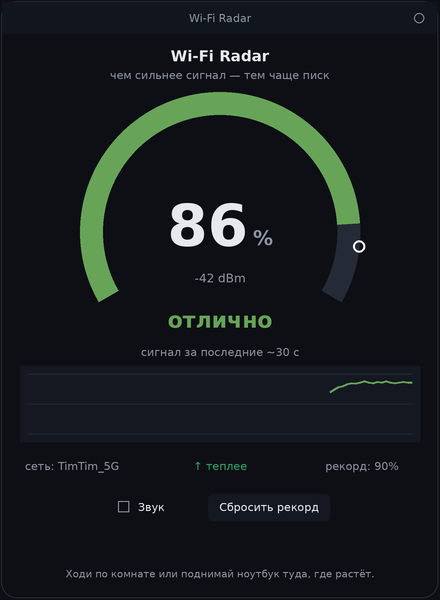
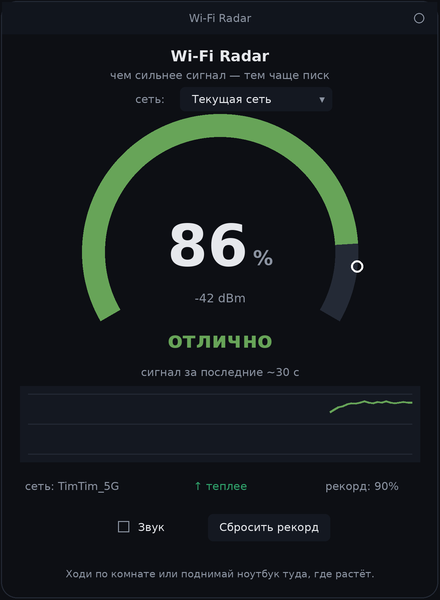
Target any nearby network (no password), via a signal scanner
- scan_networks() reads signal of all visible APs from beacons: nmcli
  on Linux, netsh on Windows; no password or association needed
- Background Scanner thread keeps the network list fresh and tracks
  the signal of a chosen non-connected network (slower scan cadence)
- GUI: network dropdown ("Текущая сеть" + nearby SSIDs with %), meter
  retargets to the selected network; graph/record reset on switch
- Screenshot and README updated for the selector

diff --git a/wifi_radar.py b/wifi_radar.py
@@ -227,6 +227,58 @@ def read_signal():
     return {"q": None, "dbm": None, "ssid": None, "iface": None, "connected": False}
 
 
+# ── Сканирование всех соседних сетей (без пароля — из открытых маячков) ──
+
+def _scan_linux(rescan=True):
+    args = ["nmcli", "-t", "-f", "SIGNAL,SSID", "dev", "wifi", "list",
+            "--rescan", "yes" if rescan else "no"]
+    out = _run(args)
+    nets = {}
+    for ln in out.splitlines():
+        sig, sep, ssid = ln.partition(":")
+        if not sep or not sig.isdigit():
+            continue
+        ssid = ssid.replace("\\:", ":").strip()
+        if not ssid:
+            continue  # скрытая сеть — пропускаем
+        q = int(sig)
+        if ssid not in nets or q > nets[ssid]:
+            nets[ssid] = q
+    return nets
+
+
+def _scan_windows():
+    out = _run(["netsh", "wlan", "show", "networks", "mode=bssid"])
+    nets = {}
+    cur = None
+    for ln in out.splitlines():
+        s = ln.strip()
+        m = re.match(r"SSID\s+\d+\s*:\s*(.*)$", s)
+        if m:
+            cur = m.group(1).strip() or None
+            continue
+        if cur:
+            mp = re.search(r"(\d{1,3})\s*%", s)
+            if mp:
+                q = int(mp.group(1))
+                if cur not in nets or q > nets[cur]:
+                    nets[cur] = q
+    return nets
+
+
+def scan_networks():
+    """Вернуть {ssid: качество 0..100} по всем видимым сетям. Без пароля."""
+    system = platform.system()
+    try:
+        if system == "Linux":
+            return _scan_linux()
+        if system == "Windows":
+            return _scan_windows()
+    except Exception:
+        pass
+    return {}
+
+
 # ──────────────────────────────────────────────────────────────────────────
 #  Звук (писк, по платформам)
 # ──────────────────────────────────────────────────────────────────────────
@@ -325,6 +377,27 @@ class Beeper(threading.Thread):
         self._stop.set()
 
 
+class Scanner(threading.Thread):
+    """Периодически сканирует соседние сети: держит список для выпадающего
+    меню и уровень выбранной (не подключённой) сети."""
+    def __init__(self, app):
+        super().__init__(daemon=True)
+        self.app = app
+        self._stop = threading.Event()
+
+    def run(self):
+        while not self._stop.is_set():
+            nets = scan_networks()
+            if nets:
+                self.app.scan_targets = nets
+                self.app.networks = sorted(nets, key=lambda k: -nets[k])
+            # когда наведены на чужую сеть — сканируем чаще
+            self._stop.wait(2.5 if self.app.target_ssid else 8.0)
+
+    def stop(self):
+        self._stop.set()
+
+
 # ──────────────────────────────────────────────────────────────────────────
 #  Графический интерфейс
 # ──────────────────────────────────────────────────────────────────────────
@@ -360,6 +433,12 @@ class App:
         self.display_q = 0.0    # что показываем сейчас (плавно догоняет target)
         self.frame = 0
 
+        # выбор сети для наблюдения
+        self.target_ssid = None     # None = текущая подключённая сеть
+        self.scan_targets = {}      # {ssid: качество} из последнего скана
+        self.networks = []          # имена сетей для меню
+        self._menu_names = None     # что сейчас в меню (чтобы не перестраивать зря)
+
         root.title(APP_NAME)
         root.configure(bg=BG)
         root.resizable(False, False)
@@ -373,7 +452,7 @@ class App:
         except Exception:
             pass
         try:
-            root.geometry("440x708")
+            root.geometry("440x748")
         except Exception:
             pass
 
@@ -388,6 +467,20 @@ class App:
         tk.Label(root, text="Wi-Fi Radar", font=self.f_title, bg=BG, fg=FG).pack(pady=(18, 2))
         tk.Label(root, text="чем сильнее сигнал — тем чаще писк",
                  font=self.f_small, bg=BG, fg=MUTED).pack(pady=(0, 6))
+
+        # Выбор сети: можно навестись на ЛЮБУЮ видимую сеть (пароль не нужен)
+        selrow = tk.Frame(root, bg=BG)
+        selrow.pack(pady=(0, 2))
+        tk.Label(selrow, text="сеть:", font=self.f_small, bg=BG, fg=MUTED
+                 ).grid(row=0, column=0, padx=(0, 6))
+        self.net_var = tk.StringVar(value="Текущая сеть")
+        self.net_menu = tk.OptionMenu(selrow, self.net_var, "Текущая сеть")
+        self.net_menu.config(font=self.f_small, bg=CARD, fg=FG, bd=0, width=22,
+                             highlightthickness=0, activebackground=TRACK,
+                             activeforeground=FG)
+        self.net_menu["menu"].config(bg=CARD, fg=FG, bd=0,
+                                     activebackground=TRACK, activeforeground=FG)
+        self.net_menu.grid(row=0, column=1)
 
         # Шкала-дуга
         self.CW, self.CH = 400, 270
@@ -455,8 +548,35 @@ class App:
 
         self.beeper = Beeper(self)
         self.beeper.start()
+        self.scanner = Scanner(self)
+        self.scanner.start()
         root.protocol("WM_DELETE_WINDOW", self._on_close)
         self.loop()
+
+    # --- выбор сети ---
+    def _on_net_change(self, choice):
+        self.target_ssid = None if choice == "Текущая сеть" else choice
+        # сброс, чтобы график и рекорд относились к новой сети
+        self.best = -1
+        self.prev = -1
+        self.history.clear()
+        self.best_lbl.config(text="рекорд: —")
+
+    def _rebuild_net_menu(self, names):
+        if names == self._menu_names:
+            return
+        self._menu_names = list(names)
+        m = self.net_menu["menu"]
+        m.delete(0, "end")
+        m.add_command(label="Текущая сеть",
+                      command=lambda: (self.net_var.set("Текущая сеть"),
+                                       self._on_net_change("Текущая сеть")))
+        for nm in names:
+            q = self.scan_targets.get(nm)
+            label = "%s  (%d%%)" % (nm, q) if q is not None else nm
+            m.add_command(label=label,
+                          command=lambda v=nm: (self.net_var.set(v),
+                                                self._on_net_change(v)))
 
     # --- действия ---
     def _toggle_sound(self):
@@ -467,10 +587,11 @@ class App:
         self.best_lbl.config(text="рекорд: —")
 
     def _on_close(self):
-        try:
-            self.beeper.stop()
-        except Exception:
-            pass
+        for t in ("beeper", "scanner"):
+            try:
+                getattr(self, t).stop()
+            except Exception:
+                pass
         self.root.destroy()
 
     def consume_record_flag(self):
@@ -530,8 +651,55 @@ class App:
         self.canvas.coords(self.unit_item, left + nw + gap, self.cy + 6)
         self.canvas.itemconfig(self.unit_item, text=("" if muted else "%"))
 
+    # --- обновление по выбранной (не подключённой) сети: из сканов ---
+    def _update_targeted(self):
+        ssid = self.target_ssid
+        q = self.scan_targets.get(ssid)
+        self.ssid_lbl.config(text="сеть: %s" % ssid)
+        self.canvas.itemconfig(self.dbm_item, text="")
+
+        if q is None:
+            self.connected = False
+            self.current_q = 0
+            self.target_q = 0.0
+            self.status_lbl.config(text="сеть не видна", fg=MUTED)
+            self.trend_lbl.config(text="")
+            self.canvas.itemconfig(self.best_dot, outline="", fill="")
+            self.history.append(self.display_q)
+            self.draw_graph()
+            return
+
+        q = max(0, min(100, int(q)))
+        self.connected = True
+        self.current_q = q
+        self.target_q = float(q)
+        self.status_lbl.config(text=label_for(q), fg=color_for(q))
+
+        if q > self.prev:
+            self.trend_lbl.config(text="↑ теплее", fg="#30a46c")
+        elif q < self.prev:
+            self.trend_lbl.config(text="↓ холоднее", fg="#e5484d")
+        else:
+            self.trend_lbl.config(text="= ровно", fg=MUTED)
+
+        if q > self.best:
+            self.best = q
+            with self._lock:
+                self._record_flag = True
+            bx, by = self._point_on_arc(q)
+            self.canvas.coords(self.best_dot, bx - 7, by - 7, bx + 7, by + 7)
+            self.canvas.itemconfig(self.best_dot, outline="#ffffff", fill="")
+        self.best_lbl.config(text="рекорд: %d%%" % self.best if self.best >= 0 else "рекорд: —")
+
+        self.history.append(self.display_q)
+        self.draw_graph()
+        self.prev = q
+
     # --- чтение сигнала + обновление подписей (раз в несколько кадров) ---
     def _read_and_update(self):
+        if self.target_ssid:
+            self._update_targeted()
+            return
         try:
             data = read_signal()
         except Exception:
@@ -590,6 +758,9 @@ class App:
         # читаем сигнал не каждый кадр, а раз в ~320 мс
         if self.frame % 8 == 0:
             self._read_and_update()
+        # список сетей в меню освежаем раз в ~2 с
+        if self.frame % 50 == 0:
+            self._rebuild_net_menu(self.networks)
 
         # плавно подтягиваем показываемое значение к целевому
         self.display_q += (self.target_q - self.display_q) * 0.18

diff --git a/README.md b/README.md
@@ -22,6 +22,11 @@
 ~30 секунд, название сети, тренд (теплее/холоднее) и текущий рекорд. Снизу —
 переключатель звука и сброс рекорда.
 
+Вверху — выбор сети: по умолчанию следим за подключённой, но в списке можно
+выбрать **любую видимую сеть** и искать её точку (пароль не нужен — уровень
+берётся из открытых маячков, которые вещает каждый роутер). У чужой сети данные
+обновляются чуть реже — через скан раз в пару секунд.
+
 ## Чем отличается от других
 
 Инструменты для силы Wi-Fi есть, но у каждого свой минус для простой задачи
